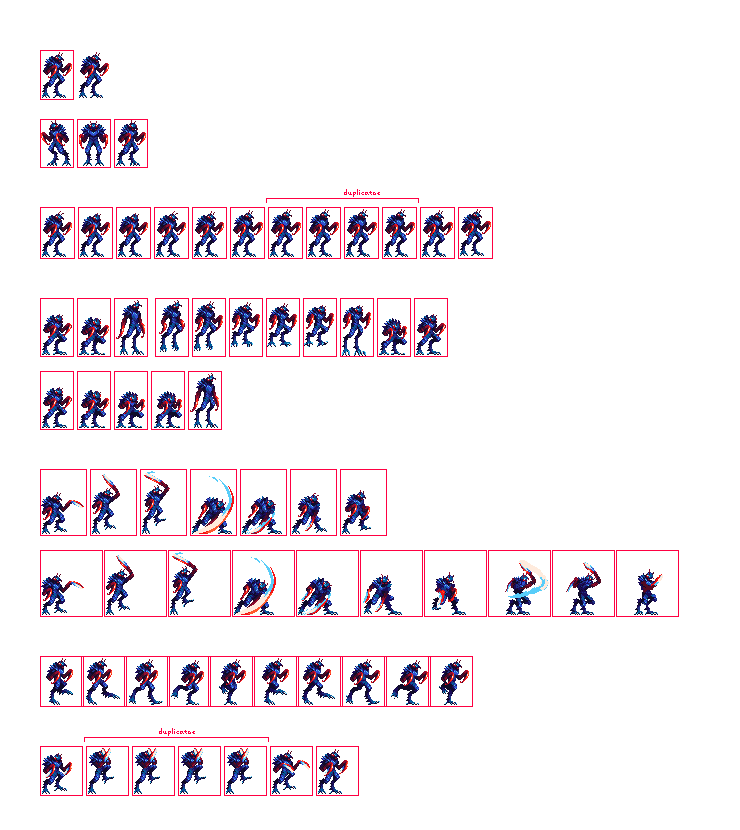
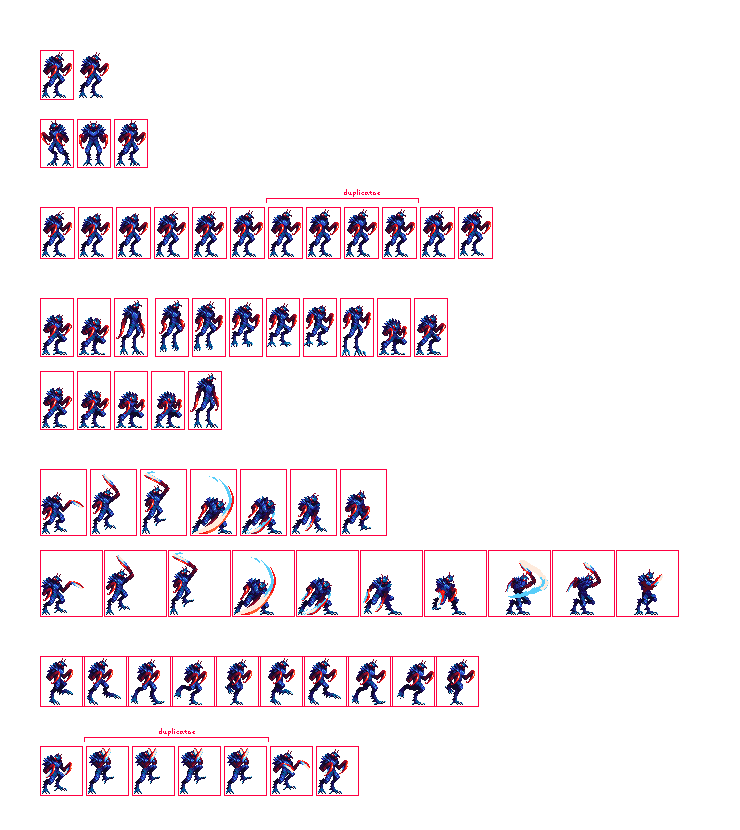
Implemented the Mantanoid enemy.
My God, I'm so excited! It actually works really well! The Mantanoid
charges at you like a maniac, and you are basically forced to run
for your life.

I had to fix up the sprite sheet, and I might want to do some more
tweaks as well. Other than that, it's just adding sound effects, and
putting the Mantanoids in a couple areas of Iridia.

Changed region(s): [[0.0932, 0.7831, 0.6527, 0.8735]]

diff --git a/hexoshi.py b/hexoshi.py
@@ -181,14 +181,26 @@ ANNEROY_BULLET_LIFE = 45
 ANNEROY_EXPLODE_TIME = 0.6 * FPS
 ANNEROY_DECOMPRESS_LAX = 4
 
+MANTANOID_WANDER_SPEED = 1
+MANTANOID_WANDER_INTERVAL = FPS * 2
+MANTANOID_APPROACH_SPEED = 2
 MANTANOID_WALK_FRAMES_PER_PIXEL = 1 / 6
+MANTANOID_LEVEL_DISTANCE = 48
+MANTANOID_SLASH_DISTANCE = 30
+MANTANOID_SLASH2_DISTANCE = 44
 MANTANOID_BBOX_X = -12
 MANTANOID_BBOX_Y = -16
 MANTANOID_BBOX_WIDTH = 24
 MANTANOID_BBOX_HEIGHT = 48
-MANTANOID_SLASH_FRAMES = [3]
-MANTANOID_DOUBLESLASH_FRAMES = [3, 7]
+MANTANOID_SLASH_BBOX_X = -12
+MANTANOID_SLASH_BBOX_Y = -27
+MANTANOID_SLASH_BBOX_WIDTH = 38
+MANTANOID_SLASH_BBOX_HEIGHT = 59
 MANTANOID_DOUBLESLASH_OFFSET = 18
+MANTANOID_SLASH2_BBOX_X = 0
+MANTANOID_SLASH2_BBOX_Y = -20
+MANTANOID_SLASH2_BBOX_WIDTH = 24
+MANTANOID_SLASH2_BBOX_HEIGHT = 32
 
 CEILING_LAX = 2
 
@@ -2948,6 +2960,8 @@ class Mantanoid(Enemy, FallingObject, CrowdBlockingObject):
     classname = "Mantanoid"
     hp = 5
     touch_damage = 10
+    slash_damage = 20
+    sight_distance = 150
 
     def __init__(self, x, y, **kwargs):
         kwargs["sprite"] = mantanoid_stand_sprite
@@ -2957,6 +2971,182 @@ class Mantanoid(Enemy, FallingObject, CrowdBlockingObject):
         kwargs["bbox_height"] = MANTANOID_BBOX_HEIGHT
         kwargs["regulate_origin"] = True
         super(Mantanoid, self).__init__(x, y, **kwargs)
+        self.action = None
+        self.target = None
+        self.movement_speed = 0
+
+    def set_direction(self, direction):
+        if not self.action:
+            if direction > 0:
+                if self.image_xscale < 0:
+                    self.perform_action(self.action_turn_right)
+            elif direction < 0:
+                if self.image_xscale > 0:
+                    self.perform_action(self.action_turn_left)
+
+    def stop_left(self):
+        if not self.action:
+            self.action_turn_right()
+
+    def stop_right(self):
+        if not self.action:
+            self.action_turn_left()
+
+    def update_wander(self):
+        if self.was_on_floor and "move_lock" not in self.alarms:
+            choices = [1] * 3 + [0] * 10 + [-1]
+            xv = random.choice(choices)
+            if self.x > self.xstart:
+                xv *= -1
+
+            self.set_direction(xv)
+            self.movement_speed = MANTANOID_WANDER_SPEED
+            self.alarms["move_lock"] = MANTANOID_WANDER_INTERVAL
+
+    def perform_action(self, action):
+        if not self.action:
+            self.xvelocity = 0
+            action()
+
+    def action_turn_left(self):
+        if self.image_xscale > 0:
+            self.image_xscale = -abs(self.image_xscale)
+            self.sprite = mantanoid_turn_sprite
+            self.image_fps = -mantanoid_turn_sprite.fps
+            self.image_index = mantanoid_turn_sprite.frames - 1
+            self.action = "animation"
+
+    def action_turn_right(self):
+        if self.image_xscale < 0:
+            self.image_xscale = abs(self.image_xscale)
+            self.sprite = mantanoid_turn_sprite
+            self.image_fps = mantanoid_turn_sprite.fps
+            self.image_index = 0
+            self.action = "animation"
+
+    def action_approach(self):
+        if self.target is not None:
+            if self.x < self.target.x:
+                self.action_turn_right()
+            else:
+                self.action_turn_left()
+
+            self.movement_speed = MANTANOID_APPROACH_SPEED
+
+    def action_slash(self):
+        if self.target is not None:
+            self.action = "slash"
+            self.sprite = mantanoid_slash_start_sprite
+            self.image_fps = None
+            self.image_index = 0
+
+    def check_hazards(self):
+        return None
+
+    def update_action(self):
+        action = self.check_hazards()
+        if not action:
+            if self.target is not None:
+                xdist = abs(self.target.x - self.x)
+                ydist = abs(self.target.y - self.y)
+                if ydist <= MANTANOID_LEVEL_DISTANCE:
+                    if xdist <= MANTANOID_SLASH_DISTANCE:
+                        action = self.action_slash
+                    else:
+                        action = self.action_approach
+
+        if action:
+            self.perform_action(action)
+        else:
+            self.update_wander()
+
+    def set_image(self):
+        if not self.action:
+            if self.was_on_floor:
+                if self.xvelocity:
+                    self.sprite = mantanoid_walk_sprite
+                    self.image_speed = abs(
+                        self.xvelocity * MANTANOID_WALK_FRAMES_PER_PIXEL)
+                else:
+                    self.sprite = mantanoid_idle_sprite
+                    self.image_fps = None
+            else:
+                pass
+
+    def event_step(self, time_passed, delta_mult):
+        if not self.action:
+            self.target = self.get_nearest_player()
+            dist = 0
+            if self.target is not None:
+                xvec = self.target.x - self.x
+                yvec = self.target.y - self.y
+                dist = math.hypot(xvec, yvec)
+                if dist > self.sight_distance:
+                    self.target = None
+
+            self.update_action()
+
+        if not self.action:
+            self.xvelocity = self.movement_speed * self.image_xscale
+            self.set_image()
+
+    def event_animation_end(self):
+        if self.action == "slash":
+            double = False
+            if self.target is not None:
+                w = MANTANOID_SLASH_BBOX_WIDTH
+                h = MANTANOID_SLASH_BBOX_HEIGHT
+                if self.image_xscale > 0:
+                    x = self.x + MANTANOID_SLASH_BBOX_X
+                    y = self.y + MANTANOID_SLASH_BBOX_Y
+                else:
+                    x = self.x - MANTANOID_SLASH_BBOX_X - w
+                    y = self.y - MANTANOID_SLASH_BBOX_Y - h
+
+                if sge.collision.rectangle(x, y, w, h, other=self.target):
+                    self.target.hurt(self.slash_damage)
+                else:
+                    xdist = abs(self.target.x - self.x)
+                    ydist = abs(self.target.y - self.y)
+                    if (ydist <= MANTANOID_LEVEL_DISTANCE and
+                            xdist <= MANTANOID_SLASH2_DISTANCE):
+                        double = True
+
+            if double:
+                self.sprite = mantanoid_slash_double_first_sprite
+                self.image_fps = None
+                self.image_index = 0
+                self.action = "doubleslash"
+            else:
+                self.sprite = mantanoid_slash_single_sprite
+                self.image_fps = None
+                self.image_index = 0
+                self.action = "animation"
+        elif self.action == "doubleslash":
+            self.move_x(MANTANOID_DOUBLESLASH_OFFSET * self.image_xscale)
+
+            if self.target is not None:
+                w = MANTANOID_SLASH2_BBOX_WIDTH
+                h = MANTANOID_SLASH2_BBOX_HEIGHT
+                if self.image_xscale > 0:
+                    x = self.x + MANTANOID_SLASH2_BBOX_X
+                    y = self.y + MANTANOID_SLASH2_BBOX_Y
+                else:
+                    x = self.x - MANTANOID_SLASH2_BBOX_X - w
+                    y = self.y - MANTANOID_SLASH2_BBOX_Y - h
+
+                if sge.collision.rectangle(x, y, w, h, other=self.target):
+                    self.target.hurt(self.slash_damage)
+
+            self.sprite = mantanoid_slash_double_second_sprite
+            self.image_fps = None
+            self.image_index = 0
+            self.action = "animation"
+        elif self.action == "animation":
+            self.sprite = mantanoid_stand_sprite
+            self.image_fps = None
+            self.image_index = 0
+            self.action = None
 
 
 class Boss(InteractiveObject):
@@ -5775,40 +5965,40 @@ mantanoid_stand_sprite = sge.gfx.Sprite.from_tileset(
     fname, 41, 51, width=32, height=48, origin_x=15, origin_y=15)
 mantanoid_idle_sprite = sge.gfx.Sprite.from_tileset(
     fname, 41, 208, 12, xsep=5, width=33, height=50, origin_x=15, origin_y=17,
-    fps=15)
+    fps=10)
 mantanoid_turn_sprite = sge.gfx.Sprite.from_tileset(
     fname, 41, 120, 3, xsep=5, width=32, height=47, origin_x=15, origin_y=14,
-    fps=15)
+    fps=10)
 mantanoid_walk_sprite = sge.gfx.Sprite.from_tileset(
-    fname, 41, 657, 10, xsep=3, width=40, height=49, origin_x=23, origin_y=16)
+    fname, 41, 657, 10, xsep=3, width=41, height=49, origin_x=23, origin_y=16)
 mantanoid_hop_start_sprite = sge.gfx.Sprite.from_tileset(
     fname, 41, 299, 3, xsep=5, width=32, height=57, origin_x=15, origin_y=24,
-    fps=15)
+    fps=10)
 mantanoid_jump_start_sprite = sge.gfx.Sprite.from_tileset(
     fname, 41, 372, 5, xsep=5, width=32, height=57, origin_x=15, origin_y=24,
-    fps=15)
+    fps=10)
 mantanoid_jump_sprite = sge.gfx.Sprite.from_tileset(
     fname, 156, 299, width=32, height=57, origin_x=15, origin_y=24)
 mantanoid_fall_start_sprite = sge.gfx.Sprite.from_tileset(
     fname, 193, 299, 3, xsep=5, width=32, height=57, origin_x=15, origin_y=24,
-    fps=15)
+    fps=10)
 mantanoid_fall_sprite = sge.gfx.Sprite.from_tileset(
     fname, 304, 299, width=32, height=57, origin_x=15, origin_y=24)
 mantanoid_land_sprite = sge.gfx.Sprite.from_tileset(
     fname, 341, 299, 3, xsep=5, width=32, height=57, origin_x=15, origin_y=24,
-    fps=15)
-mantanoid_swing_start_sprite = sge.gfx.Sprite.from_tileset(
+    fps=10)
+mantanoid_slash_start_sprite = sge.gfx.Sprite.from_tileset(
     fname, 41, 470, 3, xsep=5, width=45, height=65, origin_x=15, origin_y=32,
-    fps=15)
-mantanoid_swing_single_sprite = sge.gfx.Sprite.from_tileset(
+    fps=10)
+mantanoid_slash_single_sprite = sge.gfx.Sprite.from_tileset(
     fname, 191, 470, 4, xsep=5, width=45, height=65, origin_x=15, origin_y=32,
-    fps=15)
-mantanoid_swing_double_first_sprite = sge.gfx.Sprite.from_tileset(
+    fps=10)
+mantanoid_slash_double_first_sprite = sge.gfx.Sprite.from_tileset(
     fname, 233, 551, 4, xsep=3, width=61, height=65, origin_x=15, origin_y=32,
-    fps=15)
-mantanoid_swing_double_second_sprite = sge.gfx.Sprite.from_tileset(
+    fps=10)
+mantanoid_slash_double_second_sprite = sge.gfx.Sprite.from_tileset(
     fname, 489, 551, 3, xsep=3, width=61, height=65,
-    origin_x=(15 + MANTANOID_DOUBLESLASH_OFFSET), origin_y=32, fps=15)
+    origin_x=(15 + MANTANOID_DOUBLESLASH_OFFSET), origin_y=32, fps=10)
 
 d = os.path.join(DATA, "images", "objects", "doors")
 door_barrier_x_sprite = sge.gfx.Sprite("barrier_x", d, origin_y=-8, fps=30,
